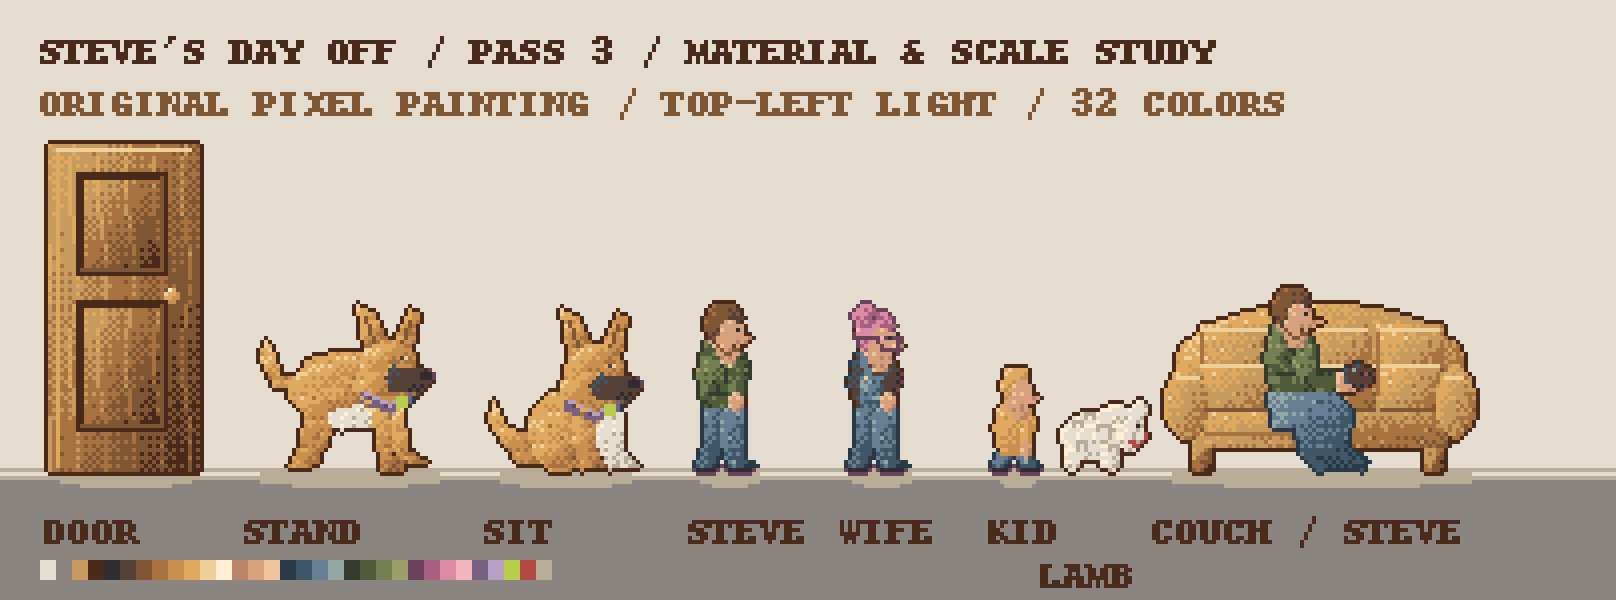
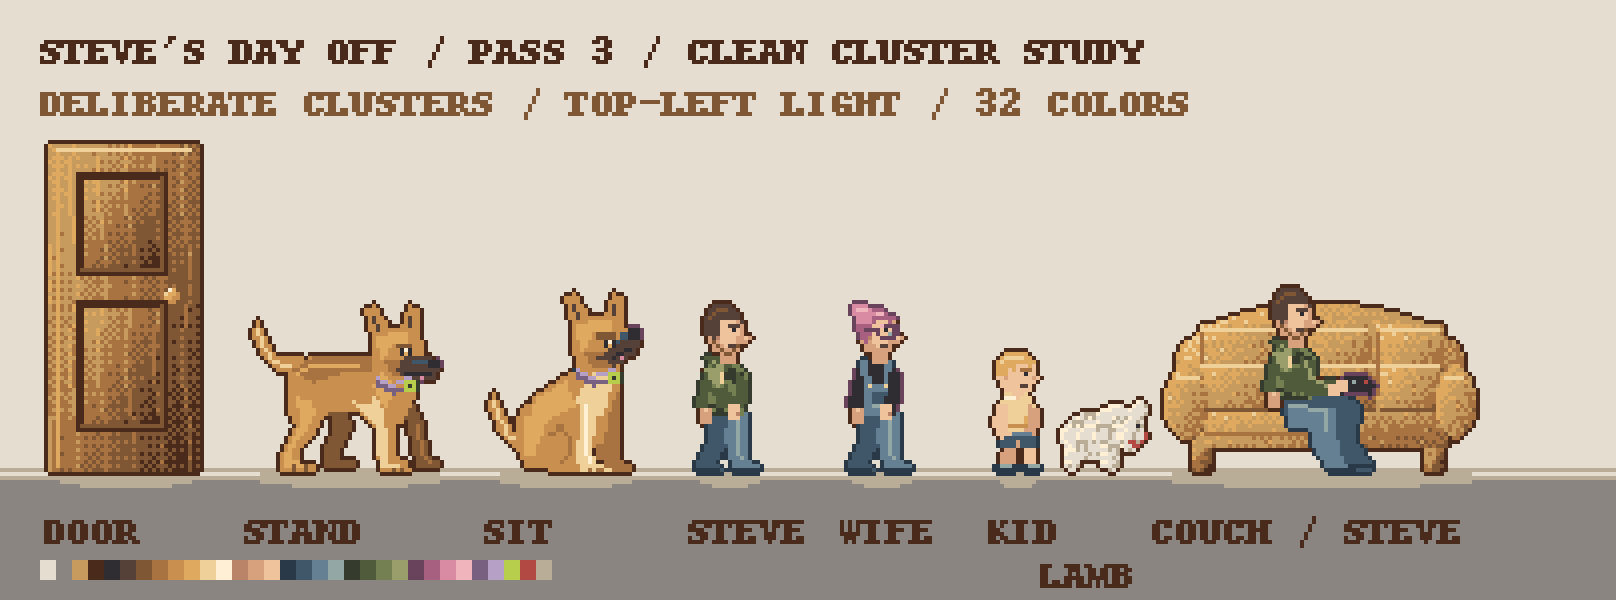
Pass 3 lineup v2 (Codex): clean clusters, rebuilt Simba, faces and arms
Committed by Claude for Codex (sandbox cannot write .git).

diff --git a/tools/art/cluster_art.py b/tools/art/cluster_art.py
@@ -1,0 +1,190 @@
+"""Pass 3 revision: native-resolution, deliberately placed pixel clusters.
+
+No noise, diffusion, or per-pixel lighting on characters. The approval sheet
+passes these paintings through pixelize.py's shared palette/anchor finalizer.
+Numbers below are indices into the unchanged shared 32-color palette.
+"""
+from PIL import Image, ImageDraw
+
+
+class Clusters:
+    def __init__(self, size, palette):
+        self.im = Image.new('RGBA', size)
+        self.d = ImageDraw.Draw(self.im)
+        self.palette = palette
+
+    def poly(self, points, color):
+        self.d.polygon(points, fill=self.palette[color] + (255,))
+
+    def rect(self, box, color):
+        self.d.rectangle(box, fill=self.palette[color] + (255,))
+
+    def line(self, points, color, width=1):
+        self.d.line(points, fill=self.palette[color] + (255,), width=width)
+
+    def dot(self, x, y, color):
+        self.im.putpixel((x, y), self.palette[color] + (255,))
+
+
+def dog(palette, finish, sitting=False):
+    p = Clusters((38,46) if sitting else (50,42), palette)
+    if not sitting:
+        # Tail rises in a curved mid-wag; far legs precede the body.
+        p.poly([(12,17),(7,16),(3,12),(1,7),(2,4),(4,9),(6,12),(13,13)],8)
+        p.line([(2,6),(3,10),(6,14),(10,15)],10)
+        p.poly([(20,25),(24,26),(25,31),(22,36),(22,38),(26,39),(26,40),(19,40),(19,36),(21,31)],6)
+        p.poly([(37,24),(40,24),(43,29),(44,37),(47,39),(47,40),(42,40),(41,36),(40,30)],6)
+        p.line([(42,30),(43,37),(45,39)],7)
+        # Strong level back, tucked belly, deep chest and shoulder.
+        p.poly([(10,16),(15,13),(29,13),(35,11),(40,14),(41,22),(38,29),(31,30),(27,26),(19,27),(15,30),(10,26)],8)
+        p.poly([(11,16),(16,13),(29,13),(33,12),(32,16),(22,17),(16,19)],7)
+        p.line([(12,17),(16,15),(27,15)],9)
+        p.poly([(26,24),(32,25),(36,21),(38,23),(36,28),(31,29)],10)
+        # Near hind leg has a defined thigh, hock, ankle and broad paw.
+        p.poly([(12,22),(17,22),(19,26),(16,32),(12,36),(12,39),(16,40),(16,41),(8,41),(8,37),(12,30),(10,27)],8)
+        p.poly([(12,23),(15,24),(16,27),(13,32),(10,36),(10,39),(12,39),(13,40),(9,40),(9,37),(13,29)],9)
+        p.poly([(31,22),(36,23),(36,37),(39,39),(40,41),(33,41),(32,37)],8)
+        p.poly([(31,23),(33,24),(34,36),(34,39),(37,40),(33,40),(32,36)],10)
+        p.line([(11,40),(11,41)],6);p.line([(14,40),(14,41)],6)
+        p.dot(36,41,6);p.dot(38,41,6)
+        # Neck slopes into shoulder rather than perching on the back.
+        p.poly([(30,20),(32,12),(34,9),(40,10),(42,18),(38,26),(34,26)],8)
+        p.poly([(31,20),(34,14),(36,15),(35,23),(34,25)],9)
+        hx,hy=34,5
+    else:
+        p.poly([(13,39),(7,38),(3,34),(1,29),(2,26),(4,30),(6,34),(12,35),(16,39)],8)
+        p.line([(2,28),(3,32),(6,36),(10,37)],10)
+        # Far rear paw and far straight foreleg stay visibly darker.
+        p.poly([(16,33),(23,34),(22,41),(26,43),(26,44),(17,44)],6)
+        p.poly([(28,23),(31,24),(31,41),(34,43),(34,44),(28,44),(27,39)],7)
+        p.poly([(12,26),(20,21),(26,20),(29,28),(27,37),(23,42),(17,44),(10,43),(8,39),(8,32)],8)
+        p.poly([(12,27),(19,23),(23,24),(21,29),(15,32),(12,37),(12,41),(10,40),(10,33)],9)
+        p.poly([(14,34),(18,32),(22,34),(22,40),(25,42),(25,44),(15,44),(12,42),(12,38)],8)
+        p.line([(15,35),(18,34),(20,36),(20,40),(18,42)],7)
+        # Upright chest and two unbent front legs, with space between paws.
+        p.poly([(23,16),(29,16),(31,24),(28,31),(25,34),(22,29),(20,24)],8)
+        p.poly([(26,21),(29,22),(28,29),(26,32),(25,40),(27,43),(29,44),(23,44),(22,41),(23,31),(22,27)],10)
+        p.line([(24,29),(24,40),(25,42)],11)
+        p.dot(25,44,7);p.dot(27,44,7)
+        hx,hy=24,7
+    # Medium upright ears, broad skull and dark interiors.
+    p.poly([(hx-3,hy+3),(hx-5,hy-4),(hx-3,hy-5),(hx+1,hy+1)],8)
+    p.poly([(hx+4,hy+1),(hx+6,hy-5),(hx+8,hy-4),(hx+8,hy+5)],8)
+    p.line([(hx-3,hy-2),(hx-2,hy+1)],5)
+    p.line([(hx+6,hy-2),(hx+6,hy+2)],5)
+    p.poly([(hx-3,hy+3),(hx,hy+1),(hx+6,hy+1),(hx+9,hy+4),(hx+9,hy+10),(hx+6,hy+14),(hx+1,hy+13),(hx-3,hy+9)],8)
+    p.poly([(hx-2,hy+3),(hx+1,hy+2),(hx+5,hy+2),(hx+5,hy+4),(hx+1,hy+5),(hx-1,hy+8)],9)
+    p.poly([(hx,hy+9),(hx+4,hy+9),(hx+5,hy+12),(hx+2,hy+12)],7)
+    # Black muzzle has a top plane, nose, smiling jaw, and a tiny tongue.
+    if sitting:
+        p.poly([(hx+6,hy+6),(hx+11,hy+4),(hx+12,hy+6),(hx+11,hy+9),(hx+6,hy+12),(hx+3,hy+10)],5)
+        p.line([(hx+6,hy+6),(hx+10,hy+5)],16)
+        p.rect((hx+10,hy+4,hx+12,hy+5),4)
+        p.line([(hx+6,hy+10),(hx+10,hy+8)],4)
+        p.dot(hx+8,hy+10,25)
+    else:
+        p.poly([(hx+5,hy+8),(hx+11,hy+8),(hx+13,hy+10),(hx+12,hy+13),(hx+6,hy+14),(hx+3,hy+11)],5)
+        p.line([(hx+7,hy+9),(hx+11,hy+9)],16)
+        p.rect((hx+11,hy+9,hx+13,hy+10),4)
+        p.line([(hx+5,hy+12),(hx+11,hy+12)],4)
+        p.dot(hx+9,hy+13,25)
+    p.line([(hx+3,hy+5),(hx+6,hy+5)],6)
+    p.rect((hx+4,hy+6,hx+6,hy+7),4)
+    p.dot(hx+5,hy+7,9);p.dot(hx+5,hy+6,11)
+    p.line([(hx-2,hy+14),(hx+2,hy+16),(hx+7,hy+14)],27,2)
+    p.line([(hx-2,hy+13),(hx+2,hy+15),(hx+6,hy+13)],28)
+    p.rect((hx+5,hy+14,hx+7,hy+16),29)
+    p.dot(hx+6,hy+15,19)
+    return finish(p.im,(40,48) if sitting else (52,44))
+
+
+def human(palette, finish, role='steve', seated=False):
+    kid=role=='kid';wife=role=='wife'
+    p=Clusters((30,46) if seated else ((12,30) if kid else (18,42)),palette)
+    if kid:
+        # A proper 10px head, yellow tee, shorts, bare shins and trainers.
+        p.poly([(3,21),(6,21),(5,27),(3,28),(2,27)],13)
+        p.rect((8,22,10,27),14)
+        p.rect((1,28,5,29),15);p.rect((8,28,11,29),15)
+        p.line([(2,28),(4,28)],18);p.line([(9,28),(11,28)],18)
+        p.poly([(2,19),(10,19),(10,23),(7,23),(6,21),(5,23),(2,23)],16)
+        p.line([(3,20),(9,20)],17)
+        p.poly([(3,10),(8,10),(10,13),(9,19),(2,19),(1,14)],10)
+        p.line([(3,11),(6,11)],11)
+        p.line([(9,14),(8,17),(9,18)],9)
+        p.line([(2,18),(8,18)],8)
+        p.poly([(1,13),(3,13),(3,18),(4,20),(2,21),(0,18)],14)
+        p.poly([(9,13),(11,14),(11,18),(10,20),(8,19),(9,17)],13)
+        p.poly([(2,2),(7,1),(10,3),(10,5),(11,6),(10,7),(9,7),(9,9),(6,11),(3,9),(1,6)],14)
+        p.line([(7,4),(9,4)],7);p.dot(8,5,4);p.dot(10,6,13)
+        p.line([(7,8),(8,8)],5)
+        p.poly([(1,5),(1,2),(3,0),(8,0),(10,2),(9,3),(6,2),(5,4),(3,3),(3,6)],9)
+        p.line([(2,2),(4,1),(7,1)],10)
+        p.dot(3,6,13)
+        return finish(p.im,(14,36))
+    # Adults: 12px head / 42px height, relaxed asymmetric stance.
+    if seated:
+        p.poly([(5,26),(20,26),(24,29),(23,38),(27,43),(27,45),(21,45),(18,40),(18,33),(7,33)],16)
+        p.poly([(7,29),(18,30),(18,35),(20,43),(23,44),(23,45),(17,45),(14,41),(12,34),(7,34)],17)
+        p.line([(7,29),(16,30),(16,35)],18)
+        p.line([(17,45),(23,45)],15);p.line([(22,44),(27,44)],15)
+        cx=7;ty=14
+    else:
+        p.poly([(4,27),(9,27),(8,35),(5,39),(6,40),(7,41),(1,41),(1,39),(4,34)],16)
+        p.poly([(9,27),(13,27),(13,38),(16,40),(16,41),(10,41),(9,37),(8,33)],17)
+        p.line([(11,29),(11,37),(12,38)],18)
+        p.line([(1,41),(6,41)],15);p.line([(10,41),(16,41)],15)
+        cx=7;ty=14
+    shirt=4 if wife else 21
+    p.poly([(cx-3,ty),(cx+2,ty-1),(cx+6,ty+3),(cx+5,ty+13),(cx-4,ty+13),(cx-5,ty+6)],shirt)
+    if not wife:
+        # Large interlocking camo islands, plus hood, cuff and pocket seams.
+        p.poly([(cx-4,ty+2),(cx-1,ty+1),(cx+1,ty+4),(cx-1,ty+6),(cx-4,ty+5)],22)
+        p.poly([(cx+2,ty+1),(cx+5,ty+3),(cx+3,ty+5),(cx+1,ty+4)],19)
+        p.poly([(cx-2,ty+7),(cx+1,ty+6),(cx+2,ty+9),(cx+4,ty+10),(cx+2,ty+12),(cx-1,ty+11)],20)
+        p.poly([(cx-4,ty-1),(cx,ty-2),(cx+3,ty),(cx+1,ty+2),(cx-2,ty+1)],20)
+        p.line([(cx-2,ty),(cx,ty+1),(cx+2,ty)],22)
+        p.line([(cx,ty+3),(cx,ty+5)],10)
+        p.line([(cx-3,ty+11),(cx,ty+12)],19)
+        p.line([(cx-4,ty+13),(cx+4,ty+13)],19)
+    else:
+        p.line([(cx-3,ty),(cx-2,ty+7)],17,2)
+        p.line([(cx+3,ty),(cx+3,ty+7)],17,2)
+        p.rect((cx-2,ty+6,cx+4,ty+13),17)
+        p.rect((cx,ty+8,cx+3,ty+10),16)
+        p.line([(cx,ty+11),(cx+3,ty+11)],18)
+        p.dot(cx-1,ty+6,10);p.dot(cx+3,ty+6,10)
+    # Both arms have their own silhouette and visible hands.
+    p.poly([(cx-4,ty+3),(cx-3,ty+6),(cx-4,ty+10),(cx-3,ty+13),(cx-5,ty+14),(cx-6,ty+10)],4 if wife else 20)
+    p.rect((cx-5,ty+12,cx-3,ty+15),13);p.dot(cx-4,ty+12,14)
+    if seated:
+        p.poly([(cx+3,ty+3),(cx+6,ty+4),(cx+6,ty+9),(cx+12,ty+9),(cx+13,ty+12),(cx+4,ty+12),(cx+2,ty+8)],20)
+        p.line([(cx+4,ty+4),(cx+5,ty+8),(cx+10,ty+10)],22)
+        p.rect((cx+10,ty+10,cx+13,ty+12),14)
+        p.poly([(cx+14,ty+8),(cx+19,ty+8),(cx+21,ty+10),(cx+20,ty+12),(cx+16,ty+11),(cx+13,ty+12)],4)
+        p.dot(cx+16,ty+9,18);p.dot(cx+19,ty+9,30)
+        p.rect((cx+12,ty+9,cx+14,ty+11),14)
+    else:
+        p.poly([(cx+4,ty+3),(cx+6,ty+5),(cx+6,ty+10),(cx+4,ty+12),(cx+2,ty+11),(cx+4,ty+8)],4 if wife else 20)
+        p.rect((cx+2,ty+11,cx+4,ty+14),14)
+        p.dot(cx+4,ty+13,12)
+    p.rect((cx,11,cx+3,14),13)
+    # Broad stylized face with brow, eye, nose and a separate mouth.
+    p.poly([(cx-3,3),(cx+2,2),(cx+5,4),(cx+5,7),(cx+7,8),(cx+6,9),(cx+4,9),(cx+4,11),(cx+1,13),(cx-2,11),(cx-3,8)],13)
+    p.poly([(cx-1,4),(cx+3,4),(cx+4,6),(cx+3,9),(cx+1,10),(cx-1,8)],14)
+    p.line([(cx+2,5),(cx+4,5)],5);p.dot(cx+3,6,4)
+    p.dot(cx+6,8,14);p.line([(cx+2,10),(cx+3,10)],5)
+    if wife:
+        p.poly([(cx-4,6),(cx-4,3),(cx-2,1),(cx+2,1),(cx+5,3),(cx+4,4),(cx,3),(cx-1,6),(cx-2,9)],24)
+        p.line([(cx-3,3),(cx,2),(cx+2,2)],26)
+        p.poly([(cx-5,2),(cx-5,0),(cx-2,0),(cx,2),(cx-1,4),(cx-4,4)],25)
+        p.line([(cx-4,1),(cx-2,1)],26)
+        p.line([(cx-2,6),(cx+1,6),(cx+2,5),(cx+5,5),(cx+5,8),(cx+2,8),(cx+1,6)],23)
+        p.dot(cx+2,5,26);p.dot(cx+4,7,18)
+    else:
+        p.poly([(cx-4,7),(cx-4,3),(cx-2,0),(cx+2,0),(cx+4,2),(cx+5,4),(cx+1,3),(cx-1,4),(cx-1,7),(cx-2,8)],5)
+        p.line([(cx-3,3),(cx-1,1),(cx+1,1)],6)
+        p.line([(cx-2,9),(cx,11),(cx+2,12),(cx+4,10)],6)
+        p.dot(cx+2,10,5)
+    p.dot(cx-1,8,12)
+    return finish(p.im,(32,48) if seated else (20,44))

diff --git a/tools/art/pixelize.py b/tools/art/pixelize.py
@@ -1,7 +1,8 @@
-"""Pass 3 approval lineup. Original pixel painting; no individual exports.
+"""Pass 3 approval lineup. Original pixel painting; no individual exports.
 
 Run: python tools/art/pixelize.py (Pillow required).
-All shapes are painted at native sprite resolution. Shared finalizer resizes,
+Characters use explicit clean clusters in cluster_art.py; the retained props
+use the original material painter below. Shared finalizer resizes,
 quantizes without diffusion, thresholds alpha, adds tinted 1px silhouettes,
 and centers the cropped result on its bottom anchor. Only lineup.png is saved.
 The table's 44px Steve limit takes precedence over its approximate 46px scale.
@@ -93,79 +94,13 @@ def pixelize(source,size):
     return result
 
 def dog(sitting=False):
-    p=Paint((52,48) if sitting else (54,46))
-    if sitting:
-        p.poly([(5,38),(1,32),(2,27),(5,33),(12,36),(18,39),(17,43),(8,42)],'fur')
-        p.oval((11,24,32,43),'fur');p.oval((12,32,25,44),'fur')
-        p.poly([(25,19),(33,20),(34,39),(38,43),(31,44),(28,37),(27,29)],'cream')
-        p.poly([(23,22),(28,24),(27,39),(30,43),(24,44),(22,36)],'fur')
-        hx,hy=26,10
-    else:
-        p.poly([(12,23),(5,21),(2,14),(3,9),(5,13),(6,18),(15,19)],'fur')
-        p.poly([(17,28),(21,29),(19,37),(15,42),(10,42),(15,36)],'fur',3)
-        p.poly([(36,27),(39,25),(40,38),(45,41),(39,42),(36,35)],'fur',3)
-        p.oval((9,13,39,31),'fur');p.poly([(18,28),(30,25),(39,22),(36,30),(23,33)],'cream')
-        p.poly([(13,26),(19,28),(16,37),(17,41),(13,43),(9,42),(12,37)],'fur')
-        p.poly([(30,25),(36,23),(36,39),(40,41),(39,43),(33,43),(32,35)],'fur')
-        hx,hy=34,6
-    p.poly([(hx-8,hy+16),(hx-5,hy+6),(hx+4,hy+5),(hx+8,hy+17),(hx+2,hy+22)],'fur')
-    p.poly([(hx-5,hy+5),(hx-7,hy-6),(hx-3,hy-4),(hx+1,hy+5)],'fur')
-    p.poly([(hx+3,hy+4),(hx+7,hy-5),(hx+9,hy-4),(hx+7,hy+8)],'fur')
-    p.line([(hx-5,hy-3),(hx-3,hy+3)],6);p.line([(hx+7,hy-2),(hx+5,hy+4)],6)
-    p.oval((hx-5,hy+3,hx+8,hy+15),'fur')
-    p.poly([(hx+3,hy+10),(hx+10,hy+11),(hx+12,hy+14),(hx+9,hy+17),(hx+2,hy+16),(hx,hy+13)],'dark')
-    p.line([(hx+10,hy+12),(hx+12,hy+12)],4,2);p.dot(hx+5,hy+8,5);p.dot(hx+6,hy+8,10)
-    p.line([(hx-6,hy+18),(hx+1,hy+21),(hx+7,hy+18)],27,3)
-    p.line([(hx-5,hy+17),(hx+2,hy+20),(hx+6,hy+18)],28)
-    for x,y in [(hx-4,hy+18),(hx,hy+20),(hx+4,hy+19)]:p.dot(x,y,23)
-    p.solid('rectangle',(hx+4,hy+18,hx+6,hy+20),29)
-    for x,y in [(15,22),(19,23),(24,19),(28,24)] if not sitting else [(15,31),(18,34),(23,28)]:
-        p.line([(x,y),(x+2,y+1)],9);p.dot(x+1,y+2,7)
-    return pixelize(p.im,(40,48) if sitting else (52,44))
+    from cluster_art import dog as paint_dog
+    return paint_dog(PAL, pixelize, sitting)
 
-def human(role='steve',seated=False):
-    size=(32,48) if seated else ((14,36) if role=='kid' else (20,44))
-    p=Paint(size);kid=role=='kid';wife=role=='wife';ox=0
-    # Native heights: kid 32px, adults fill their table limits.
-    top=4 if kid else 1;cx=8 if not seated else 11
-    if kid:cx=6
-    heady=top+4; torsoy=top+13; bottom=size[1]-2
-    if seated:
-        p.poly([(6,27),(21,27),(25,31),(24,40),(29,44),(28,46),(21,45),(19,34),(7,34)],'denim')
-        p.poly([(10,31),(20,32),(19,41),(23,45),(18,46),(14,42),(13,36),(7,35)],'denim',2)
-    else:
-        p.poly([(cx-4,torsoy+10),(cx+1,torsoy+11),(cx, bottom-5),(cx-3,bottom-1),(cx-6,bottom-1),(cx-4,bottom-7)],'denim')
-        p.poly([(cx+1,torsoy+10),(cx+5,torsoy+10),(cx+5,bottom-3),(cx+8,bottom-1),(cx+7,bottom),(cx+2,bottom),(cx,bottom-9)],'denim',2)
-    shirt='dark' if wife else ('gold' if kid else 'olive')
-    p.poly([(cx-4,torsoy-2),(cx+3,torsoy-3),(cx+6,torsoy+2),(cx+5,torsoy+12),(cx-4,torsoy+12),(cx-6,torsoy+5)],shirt)
-    if not kid and not wife:
-        p.poly([(cx-4,torsoy-3),(cx+1,torsoy-4),(cx+4,torsoy),(cx,torsoy+2),(cx-4,torsoy)],'olive')
-        p.line([(cx,torsoy),(cx+1,torsoy+7)],19);p.dot(cx+2,torsoy+3,10)
-        p.line([(cx-3,torsoy+9),(cx+2,torsoy+9)],19)
-    if wife:
-        p.line([(cx-3,torsoy-2),(cx-2,torsoy+5)],17,2);p.line([(cx+3,torsoy-2),(cx+3,torsoy+5)],17,2)
-        p.rect((cx-3,torsoy+4,cx+4,torsoy+12),'denim');p.dot(cx-2,torsoy+4,10);p.dot(cx+3,torsoy+4,10)
-        p.line([(cx-1,torsoy+7),(cx+2,torsoy+7),(cx+2,torsoy+9),(cx,torsoy+10)],18)
-    if seated:
-        p.poly([(cx+2,torsoy+1),(cx+5,torsoy+2),(cx+6,torsoy+9),(cx+12,torsoy+9),(cx+13,torsoy+12),(cx+4,torsoy+12),(cx+1,torsoy+7)],shirt)
-        p.rect((cx+11,torsoy+9,cx+15,torsoy+12),'skin');p.oval((cx+13,torsoy+7,cx+19,torsoy+11),'dark');p.dot(cx+15,torsoy+8,18);p.dot(cx+18,torsoy+9,30)
-    else:
-        p.poly([(cx+3,torsoy),(cx+6,torsoy+3),(cx+5,torsoy+10),(cx+2,torsoy+9)],shirt)
-        p.oval((cx+2,torsoy+9,cx+5,torsoy+13),'skin')
-    p.rect((cx,heady+7,cx+3,heady+11),'skin')
-    p.poly([(cx-3,heady),(cx+3,heady-1),(cx+5,heady+2),(cx+5,heady+4),(cx+7,heady+5),(cx+6,heady+6),(cx+4,heady+6),(cx+4,heady+9),(cx,heady+10),(cx-3,heady+6)],'skin')
-    hair='pink' if wife else ('gold' if kid else 'hair')
-    p.poly([(cx-4,heady+3),(cx-4,heady),(cx-2,heady-3),(cx+3,heady-3),(cx+5,heady),(cx+4,heady+1),(cx,heady),(cx-1,heady+4),(cx-2,heady+6)],hair)
-    if wife:
-        p.oval((cx-5,top-1,cx+1,top+4),'pink');p.line([(cx-4,heady+3),(cx+6,heady+3),(cx+6,heady+6),(cx+2,heady+6),(cx+1,heady+3)],23)
-        p.dot(cx+2,heady+3,26);p.dot(cx+5,heady+5,10)
-    elif not kid:
-        p.line([(cx-1,heady+7),(cx+1,heady+9),(cx+4,heady+8)],6);p.dot(cx+3,heady+7,5)
-    p.dot(cx+4,heady+3,4)
-    if not seated:
-        p.line([(cx-6,bottom),(cx-2,bottom),(cx-1,bottom-1)],4);p.line([(cx+2,bottom),(cx+7,bottom)],4)
-        p.dot(cx+3,bottom-2,18)
-    return pixelize(p.im,size)
+
+def human(role='steve', seated=False):
+    from cluster_art import human as paint_human
+    return paint_human(PAL, pixelize, role, seated)
 
 def lamb():
     p=Paint((24,20));p.oval((2,5,17,15),'cream')
@@ -198,8 +133,8 @@ def main():
     # Approval sheet only. No paths in assets/ are opened for writing.
     sheet=Image.new('RGBA',(404,150),PAL[0]+(255,));d=ImageDraw.Draw(sheet)
     font=ImageFont.load_default_imagefont()
-    d.text((10,7),'STEVE\'S DAY OFF / PASS 3 / MATERIAL & SCALE STUDY',fill=PAL[3],font=font)
-    d.text((10,20),'ORIGINAL PIXEL PAINTING / TOP-LEFT LIGHT / 32 COLORS',fill=PAL[6],font=font)
+    d.text((10,7),'STEVE\'S DAY OFF / PASS 3 / CLEAN CLUSTER STUDY',fill=PAL[3],font=font)
+    d.text((10,20),'DELIBERATE CLUSTERS / TOP-LEFT LIGHT / 32 COLORS',fill=PAL[6],font=font)
     floor=119;d.rectangle((0,floor,403,149),fill=PAL[1]);d.line((0,floor,403,floor),fill=PAL[31]);d.line((0,floor-2,403,floor-2),fill=PAL[31])
     items=[('DOOR',door(),11),('STAND',dog(),61),('SIT',dog(True),121),('STEVE',human(),172),('WIFE',human('wife'),210),('KID',human('kid'),247),('COUCH / STEVE',couch(),288),('LAMB',lamb(),265)]
     for label,sprite,x in items:
@@ -221,3 +156,4 @@ def main():
     print('lineup.png: 1616x600, exact 4x nearest-neighbor, <=32 colors, binary alpha; anchors verified.')
 
 if __name__=='__main__':main()
+

diff --git a/tools/art/check_lineup.py b/tools/art/check_lineup.py
@@ -1,0 +1,43 @@
+"""Validate the approval-only art pipeline; never export to assets/."""
+from hashlib import sha256
+from PIL import Image
+from pixelize import PAL, ROOT, dog, human, couch, door, lamb, main
+
+
+def check():
+    sprites = {
+        'stand': (dog(), (52,44)), 'sit': (dog(True), (40,48)),
+        'steve': (human(), (20,44)), 'wife': (human('wife'), (20,44)),
+        'kid': (human('kid'), (14,36)),
+        'seated': (human(seated=True), (32,48)),
+        'door': (door(), (40,84)), 'couch': (couch(), (84,44)),
+        'lamb': (lamb(), (24,20)),
+    }
+    for name, (im, size) in sprites.items():
+        assert im.size == size, name
+        box = im.getbbox()
+        assert box[3] == size[1], name
+        assert abs(box[0] - (size[0] - box[2])) <= 1, name
+        assert set(im.getchannel('A').tobytes()) == {0,255}, name
+        colors = {rgb[:3] for rgb in im.getdata() if rgb[3]}
+        assert colors <= set(PAL), name
+        print(f'{name}: {size}, visible height {box[3]-box[1]}, {len(colors)} colors')
+    # At ankle height the standing pose must have four separated legs.
+    stand = sprites['stand'][0]
+    row = [stand.getpixel((x,38))[3] != 0 for x in range(stand.width)]
+    runs = sum(v and (x == 0 or not row[x-1]) for x,v in enumerate(row))
+    assert runs == 4, f'Expected four separate legs at ankle height; got {runs}'
+    before = sha256((ROOT/'lineup.png').read_bytes()).hexdigest()
+    main()
+    assert sha256((ROOT/'lineup.png').read_bytes()).hexdigest() == before
+    im = Image.open(ROOT/'lineup.png').convert('RGBA')
+    assert im.size == (1616,600)
+    assert len(im.getcolors()) <= 32
+    assert set(im.getchannel('A').tobytes()) == {255}
+    native = im.resize((404,150), Image.Resampling.NEAREST)
+    assert native.resize(im.size, Image.Resampling.NEAREST).tobytes() == im.tobytes()
+    print('PASS: four separate legs; exact palette, binary alpha, anchors, 4x and reproducible PNG.')
+
+
+if __name__ == '__main__':
+    check()

diff --git a/CODEX.md b/CODEX.md
@@ -134,3 +134,23 @@ and no changes to index.html or frozen/.
 
 Owner approval requested: please review tools/art/lineup.png for the Pass 3
 art direction before any individual sprite exports (step 2).
+
+2026-11-14 (Pass 3, revised approval lineup): Replaced the rejected lineup
+with explicit native-resolution pixel clusters in tools/art/cluster_art.py.
+Removed procedural grain from all characters; kept the existing 32-color
+palette, textured couch, door and lamb, sheet dimensions and shared finalizer.
+Simba's local photos informed her broad chest, stocky build and blocky muzzle.
+Standing Simba now has four separated legs at ankle height, darker far legs,
+defined paws, medium upright ears with dark interiors, a highlighted eye,
+curved raised tail, and a lilac collar with lime buckle. Sitting Simba has
+lowered haunches, straight forelegs and an upward begging expression.
+People have larger heads, readable stylized faces, distinct arms/hands,
+asymmetric stances, deliberate camo, pink bun/glasses/overalls, and a blond
+kid with a yellow shirt, shorts and bare shins. Seated Steve holds a controller.
+Updated pixelize.py; added check_lineup.py and reproduction notes in
+tools/art/README.md. Validation passes palette membership, binary alpha,
+sprite limits, balanced bottom anchors, four standing leg separations,
+1616 x 600 exact 4x enlargement, and byte-identical regeneration. Visually
+reviewed the final sheet. Only the approval lineup is exported; individual
+assets remain pending owner approval. No git commands run; index.html,
+assets/ and frozen/ were not edited. Reference photos remain local only.

diff --git a/tools/art/README.md b/tools/art/README.md
@@ -1,0 +1,15 @@
+# Pass 3 approval lineup
+
+Run `python tools/art/pixelize.py` with Pillow installed to rebuild `lineup.png`.
+Run `python tools/art/check_lineup.py` to check the palette, dimensions, binary
+alpha, bottom-center anchors, four separate standing legs, exact nearest-neighbor
+4x enlargement, and deterministic regeneration.
+
+`cluster_art.py` contains the revised native-resolution character paintings:
+explicit silhouettes, hard shading clusters, and placed material details.
+`pixelize.py` owns the unchanged shared 32-color palette and finalizer, retained
+textured door/couch/lamb, and approval-sheet composition. These scripts save only
+the lineup. Character sprites remain in memory pending owner approval.
+
+The older per-asset scripts are the previous pass; they are not called by this
+lineup and should not be used to export the revised artwork.
